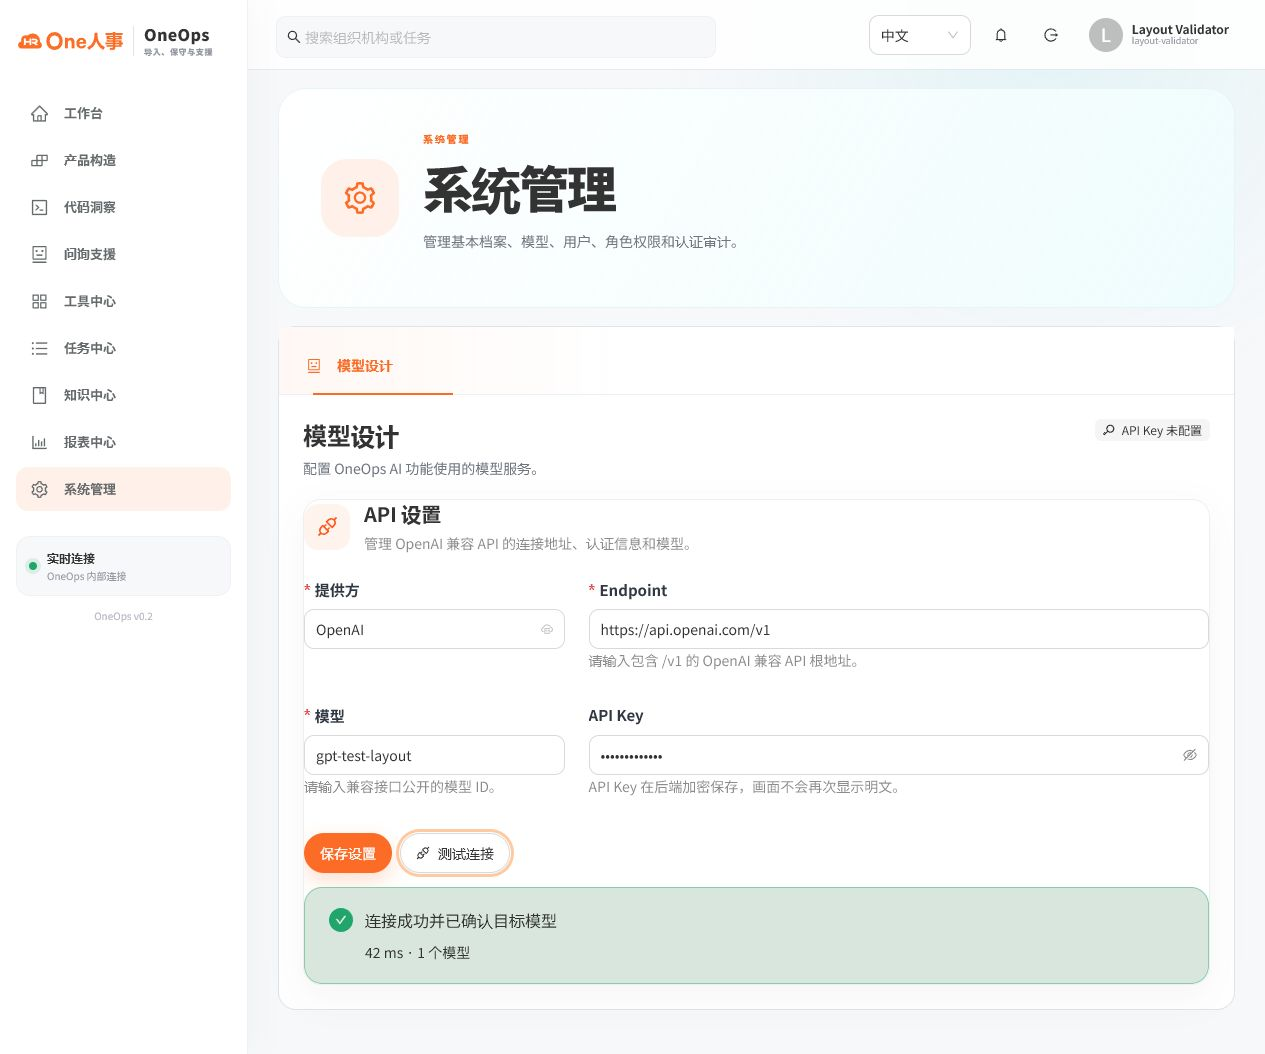
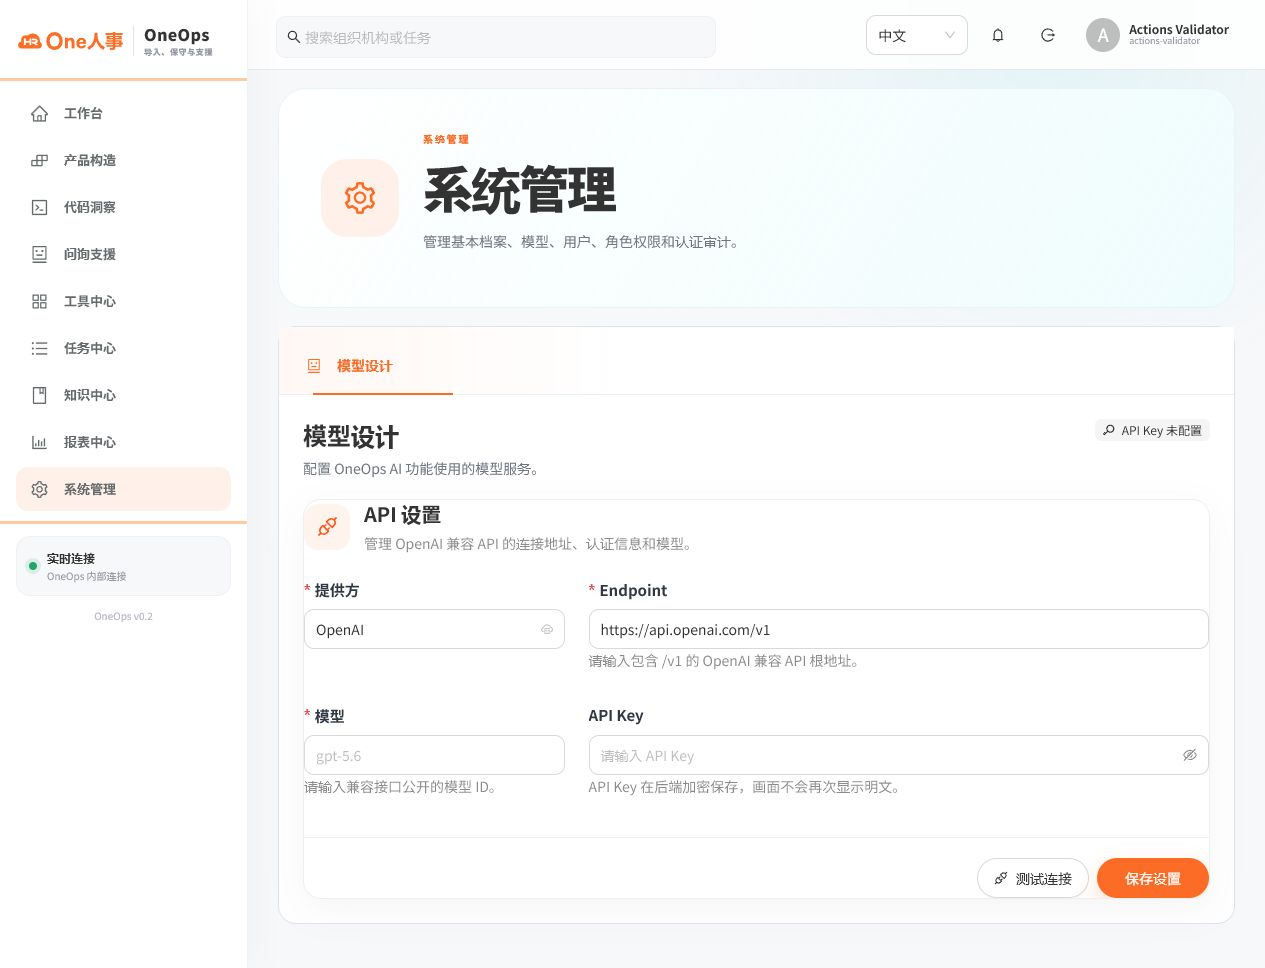
fix: align model settings actions

diff --git a/app/apps/portal-shell/src/ModelDesignPage.tsx b/app/apps/portal-shell/src/ModelDesignPage.tsx
@@ -224,18 +224,18 @@ export function ModelDesignPage({
 
             <Space wrap className="model-settings-actions">
               <Button
-                type="primary"
-                loading={saveMutation.isPending}
-                onClick={() => void submit("save")}
-              >
-                {t("saveModelSettings")}
-              </Button>
-              <Button
                 icon={<ApiOutlined />}
                 loading={testMutation.isPending}
                 onClick={() => void submit("test")}
               >
                 {t("testModelConnection")}
+              </Button>
+              <Button
+                type="primary"
+                loading={saveMutation.isPending}
+                onClick={() => void submit("save")}
+              >
+                {t("saveModelSettings")}
               </Button>
             </Space>
           </Form>

diff --git a/app/apps/portal-shell/src/model-design.test.ts b/app/apps/portal-shell/src/model-design.test.ts
@@ -30,4 +30,18 @@ describe("model design settings", () => {
     expect(source).toContain("modelConnectionSucceeded");
     expect(source).toContain("modelSettingsSaved");
   });
+
+  it("places the secondary test action before the primary save action", () => {
+    const actions = source.match(
+      /<Space wrap className="model-settings-actions">([\s\S]*?)<\/Space>/,
+    )?.[1];
+
+    expect(actions).toBeDefined();
+    expect(actions?.indexOf('submit("test")')).toBeLessThan(
+      actions?.indexOf('submit("save")') ?? -1,
+    );
+    expect(actions).toMatch(
+      /submit\("test"\)[\s\S]*?<Button[\s\S]*?type="primary"[\s\S]*?submit\("save"\)/,
+    );
+  });
 });

diff --git a/app/apps/portal-shell/src/layout.test.ts b/app/apps/portal-shell/src/layout.test.ts
@@ -137,6 +137,12 @@ describe("portal workspace layout", () => {
     expect(getRule(".model-settings-actions")).toMatch(
       /grid-column:\s*1\s*\/\s*-1/,
     );
+    expect(getRule(".model-settings-actions")).toMatch(
+      /justify-content:\s*flex-end/,
+    );
+    expect(getRule(".model-settings-actions")).toMatch(
+      /border-top:\s*1px\s+solid/,
+    );
   });
 
   it("hides organization context on directory and system administration pages", () => {

diff --git a/app/apps/portal-shell/src/styles.css b/app/apps/portal-shell/src/styles.css
@@ -1027,8 +1027,17 @@ select {
 }
 
 .model-settings-actions {
+  display: flex;
   grid-column: 1 / -1;
-  margin-top: 4px;
+  justify-content: flex-end;
+  width: 100%;
+  margin-top: 8px;
+  padding-top: 20px;
+  border-top: 1px solid #eef1f3;
+}
+
+.model-settings-actions .ant-btn {
+  min-width: 112px;
 }
 
 .model-settings-updated {

diff --git a/docs/investigations/model-design-20260726/test_results.md b/docs/investigations/model-design-20260726/test_results.md
@@ -5,7 +5,7 @@
 1. 后端聚焦测试：17 项通过。
 2. 后端 Node 全量测试：84 项通过。
 3. Worker Python 测试：4 项通过。
-4. 前端测试：45 项通过。
+4. 前端测试：46 项通过。
 5. 前端生产构建：通过。
 6. 正式发布脚本、Nginx 配置、网关健康和 HTTPS 检查：通过。
 7. 数据库存在 `ai_model_settings`；`models.settings.read` 和 `models.settings.write` 只授予 `SYSTEM_ADMIN`；生产配置记录数为 0。
@@ -13,6 +13,7 @@
 9. 1280 像素视口下，管理内容区宽 955 像素，模型设计页与设置卡片宽 907 像素，正好覆盖扣除内容区左右内边距后的全部可用宽度；页面、卡片和表单的 `max-width` 均为 `none`。
 10. 表单在桌面宽度下按约 261/620 像素双栏展开；响应式单栏规则由前端测试覆盖。
 11. 截图：`D:\nginx\docs\evidence\model-design-openai-settings-20260726.png`。
+12. 操作区与 905 像素宽表单的右边缘同为横坐标 1209；“测试连接”为左侧辅助按钮，“保存设置”为最右侧主按钮，两按钮宽度均为 112 像素；浏览器控制台警告和错误为 0。
 
 ## 测试边界
 

diff --git a/docs/MODEL_DESIGN_REQUIREMENTS.md b/docs/MODEL_DESIGN_REQUIREMENTS.md
@@ -51,8 +51,9 @@ OneOps 在“系统管理”中提供“模型设计”，用于维护系统 AI 
 
 1. 系统管理顶部出现“模型设计”分组与“API 设置”入口。
 2. 设置卡片占满系统管理内容工作区，宽屏字段使用双列布局，窄屏自动回到单列。
-3. 提供方只有 `OpenAI`。
-4. API Key 使用密码输入框，刷新后不回显明文。
-5. 未配置 API Key 时禁止保存或测试。
-6. 自动化测试覆盖验证、加密绑定、权限映射、连接成功和主要失败分类。
-7. 生产构建、网关迁移、目标页面、浏览器控制台和截图验证全部通过。
+3. 卡片底部使用右对齐操作区，辅助动作“测试连接”位于左侧，主动作“保存设置”位于最右侧。
+4. 提供方只有 `OpenAI`。
+5. API Key 使用密码输入框，刷新后不回显明文。
+6. 未配置 API Key 时禁止保存或测试。
+7. 自动化测试覆盖验证、加密绑定、权限映射、连接成功和主要失败分类。
+8. 生产构建、网关迁移、目标页面、浏览器控制台和截图验证全部通过。

diff --git a/docs/investigations/model-design-20260726/FINAL_RECEIPT.md b/docs/investigations/model-design-20260726/FINAL_RECEIPT.md
@@ -10,7 +10,7 @@ API Key 使用服务器端认证加密保存，读取接口只返回已配置状
 
 1. 后端 Node 测试：84 项通过。
 2. Worker Python 测试：4 项通过。
-3. 前端测试：45 项通过。
+3. 前端测试：46 项通过。
 4. TypeScript 与 Vite 生产构建：通过。
 5. 正式发布脚本：通过。
 6. Nginx 配置检查：通过。
@@ -18,6 +18,7 @@ API Key 使用服务器端认证加密保存，读取接口只返回已配置状
 8. 数据库迁移：`ai_model_settings`、两项模型权限与 SYSTEM_ADMIN 授权已确认。
 9. 浏览器：OpenAI 唯一选项、密码输入、连接成功提示与无控制台错误已确认。
 10. 模型设计页与设置卡片已使用管理工作区扣除内边距后的全部可用宽度；桌面双栏和窄屏单栏布局已验证。
+11. 卡片底部操作区已按 OneOps 编辑操作习惯右对齐，“测试连接”位于辅助动作位置，“保存设置”位于最右侧主动作位置。
 
 ## 测试边界
 

diff --git a/docs/investigations/model-design-20260726/commands.md b/docs/investigations/model-design-20260726/commands.md
@@ -7,5 +7,6 @@
 5. `pnpm build`
 6. `powershell.exe -NoProfile -ExecutionPolicy Bypass -File scripts/publish-portal.ps1 -Reason model-design-20260726`
 7. `powershell.exe -NoProfile -ExecutionPolicy Bypass -File scripts/publish-portal.ps1 -Reason model-design-full-width-20260726`
-8. `docker exec onehr-operations-postgres ... psql ...`，只查询迁移、权限和配置记录数。
-9. 浏览器加载生产构建产物，验证菜单、全宽表单、虚构连接结果、控制台和截图。
+8. `powershell.exe -NoProfile -ExecutionPolicy Bypass -File scripts/publish-portal.ps1 -Reason model-design-actions-alignment-20260726`
+9. `docker exec onehr-operations-postgres ... psql ...`，只查询迁移、权限和配置记录数。
+10. 浏览器加载生产构建产物，验证菜单、全宽表单、按钮顺序与右对齐、虚构连接结果、控制台和截图。
